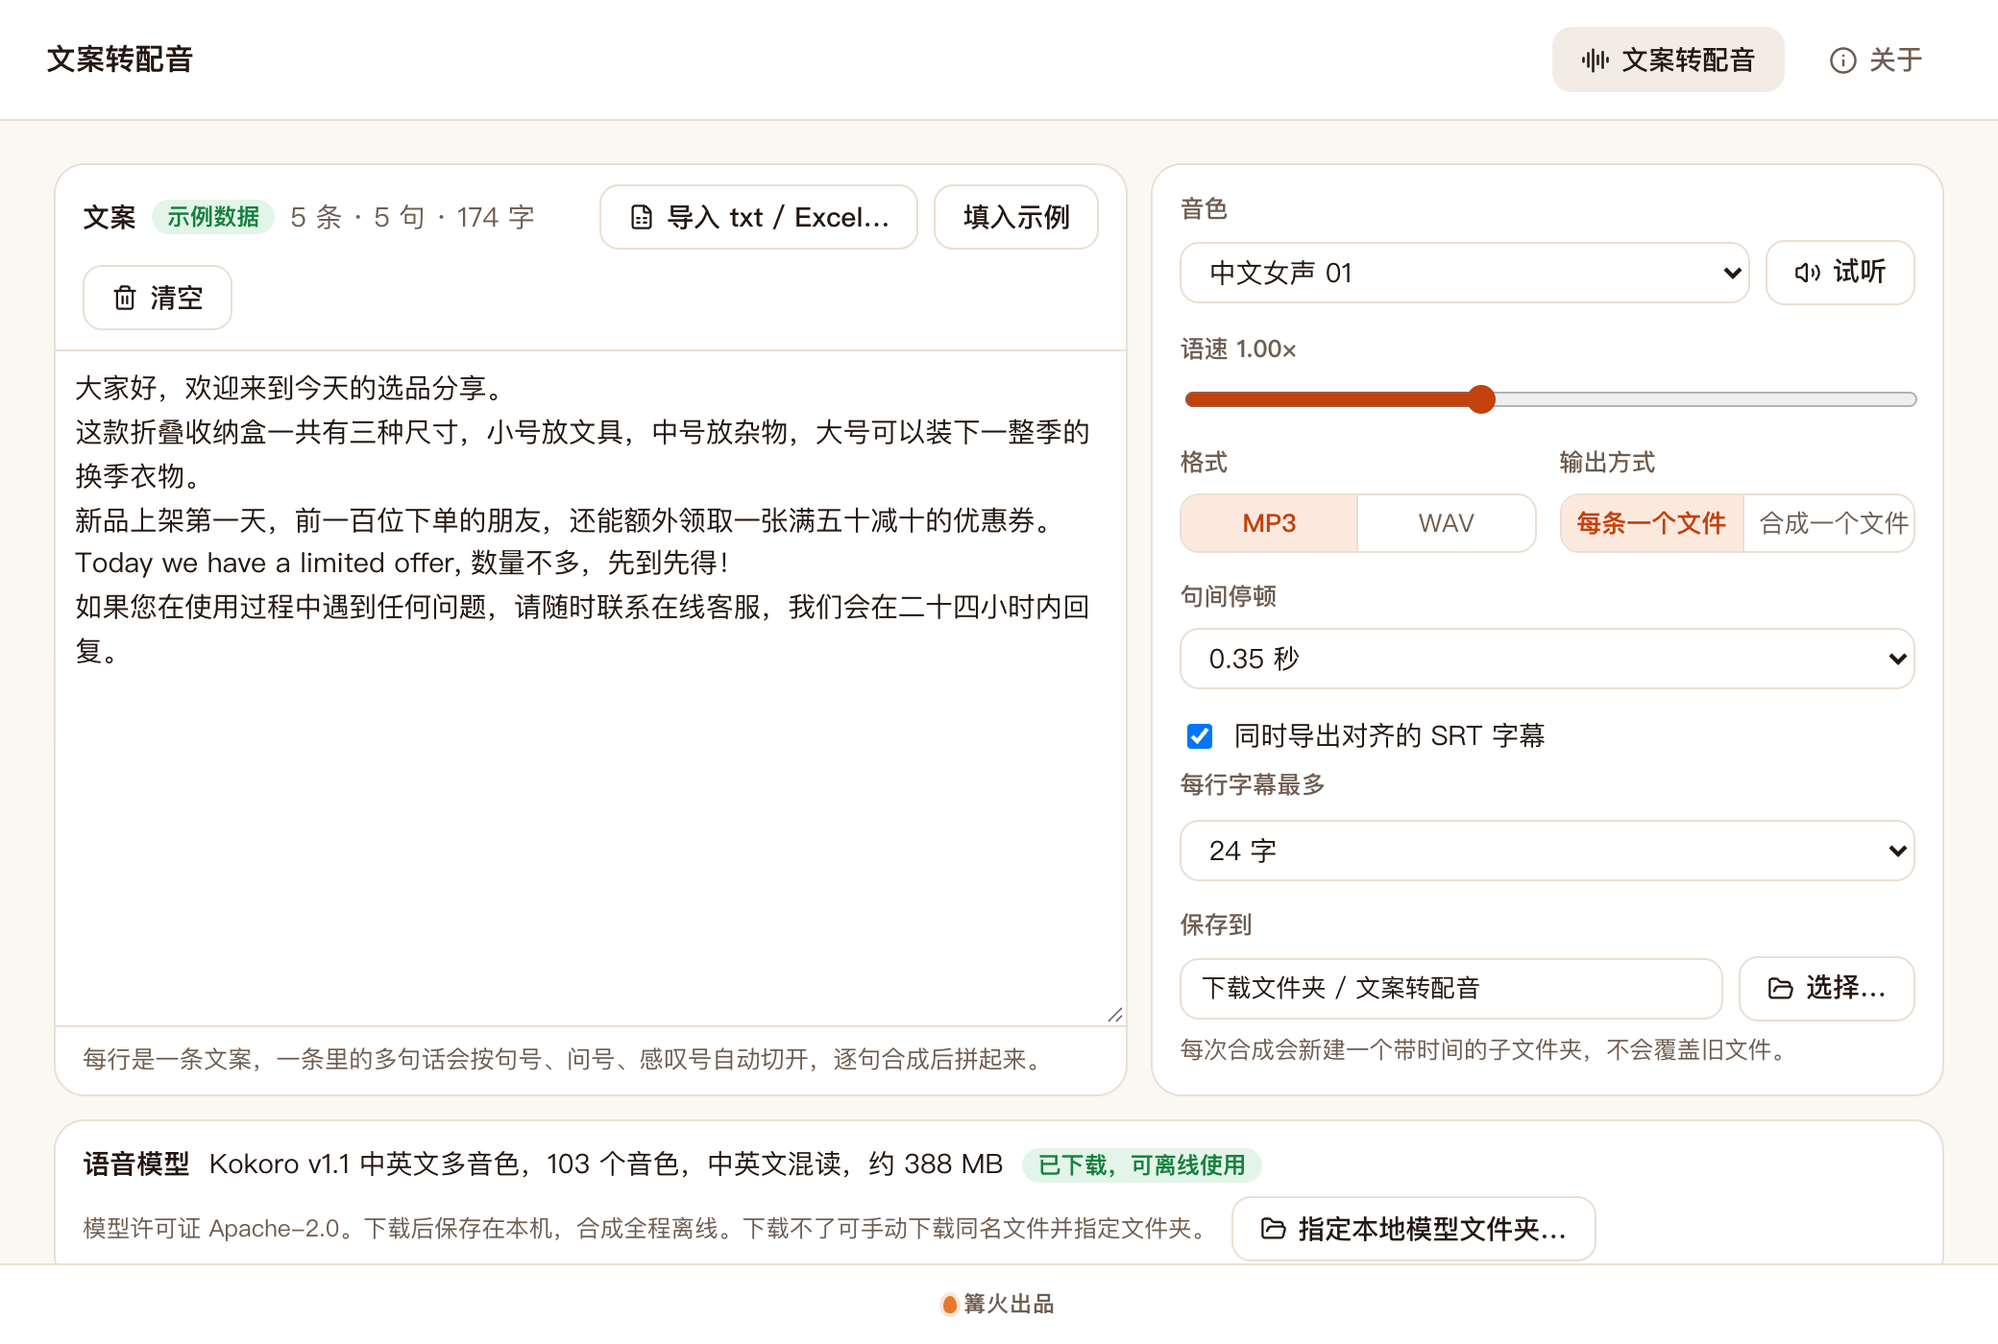
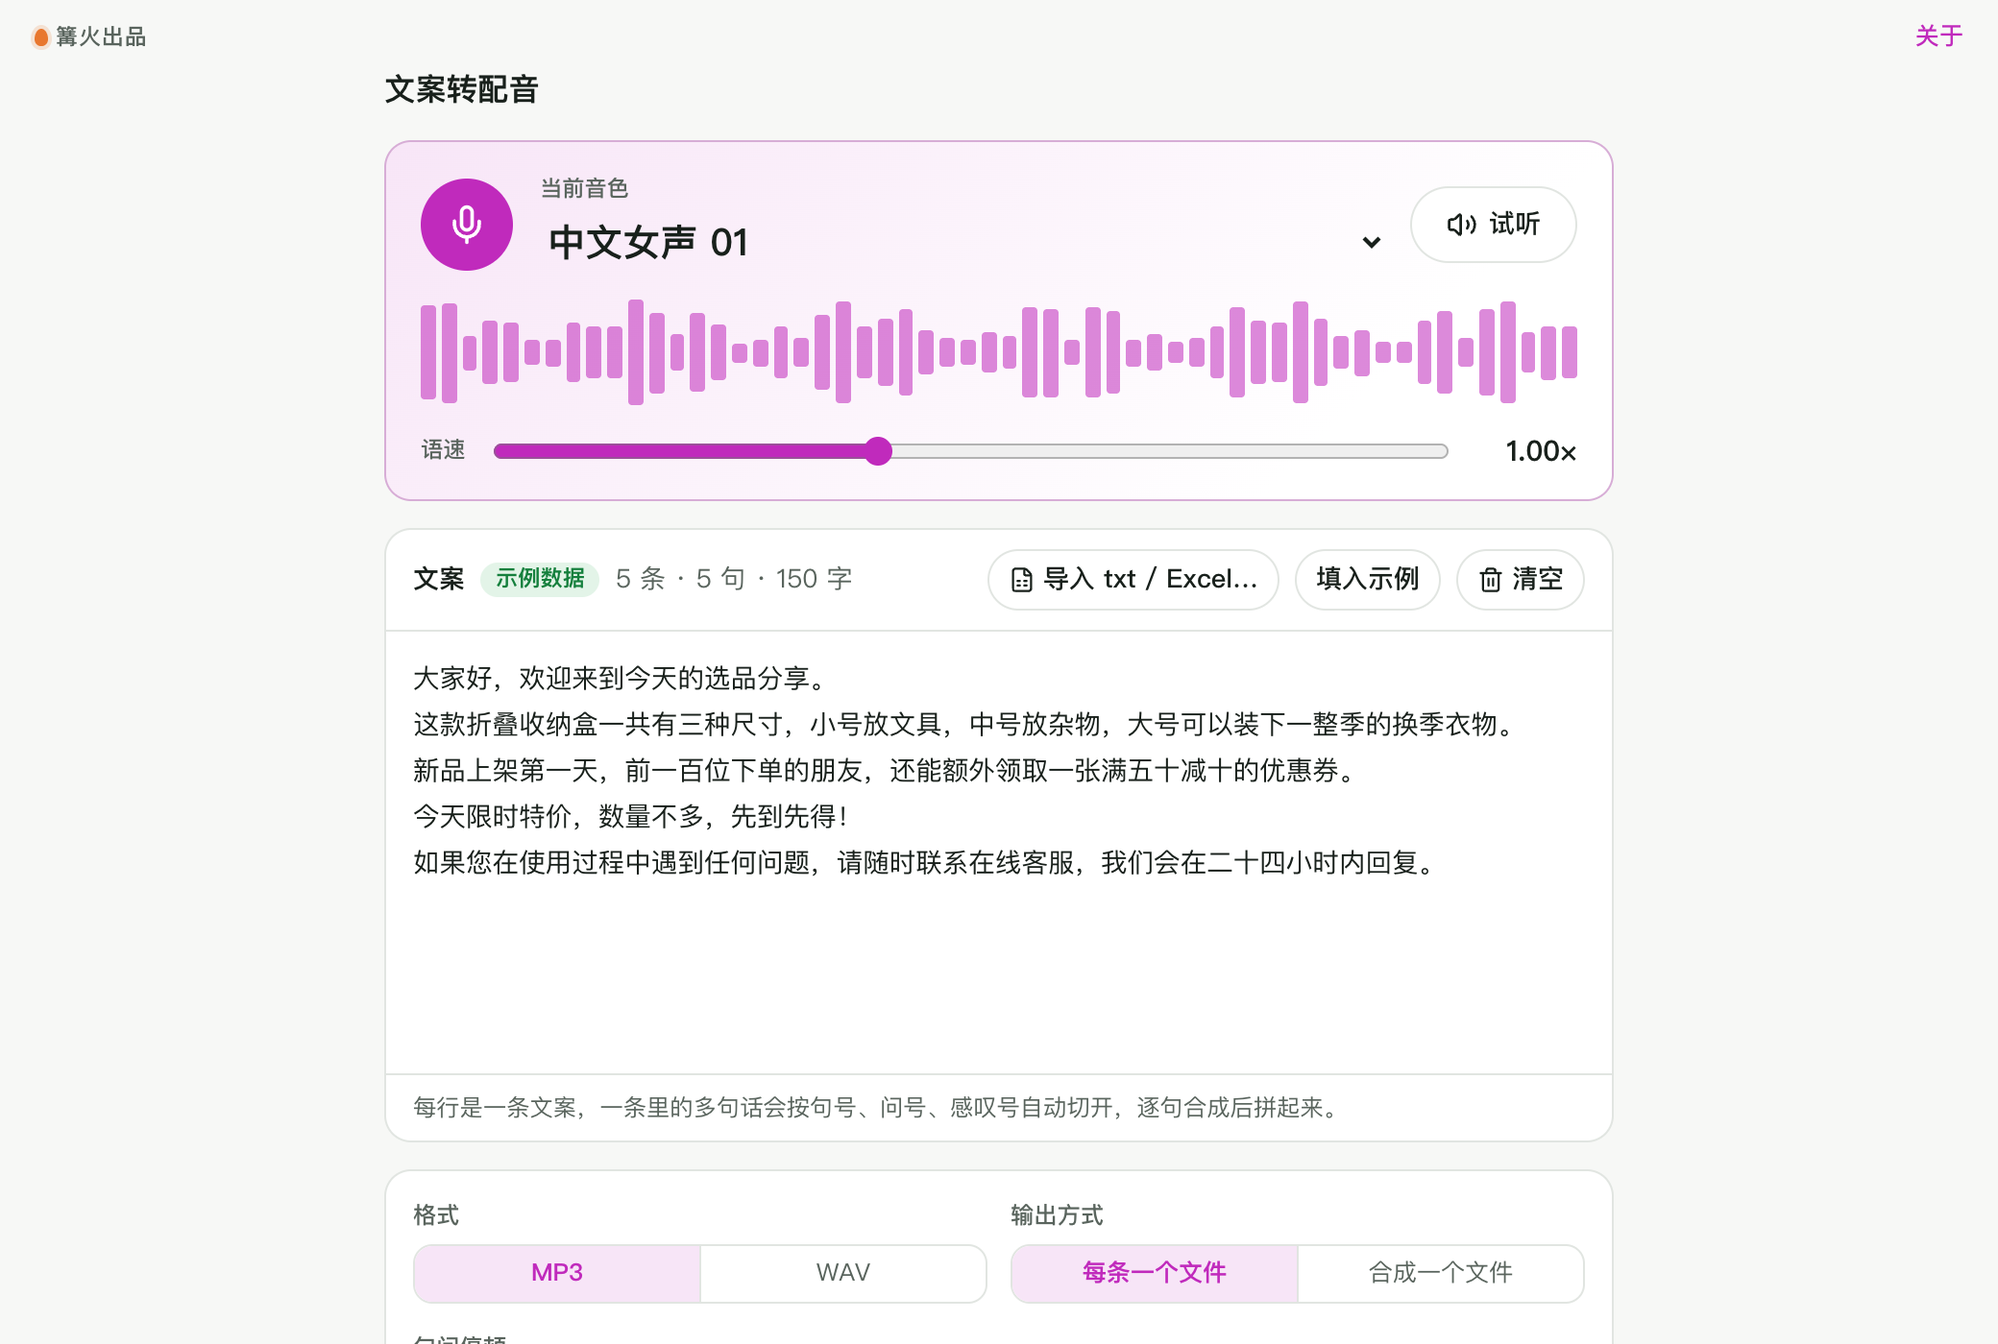
0.2.0：单栏录音棚界面、中文化、README 副标题改正

diff --git a/src/tool/Main.tsx b/src/tool/Main.tsx
@@ -1,6 +1,6 @@
 // 主界面：输入 / 导入文案 → 选音色和语速 → 离线合成 → 导出 WAV / MP3 与对齐的 SRT。
 import { useCallback, useDeferredValue, useEffect, useMemo, useRef, useState } from 'react';
-import { AlertTriangle, CheckCircle2, FileSpreadsheet, FolderOpen, Play, Square, Trash2, Volume2 } from 'lucide-react';
+import { AlertTriangle, CheckCircle2, FileSpreadsheet, FolderOpen, Mic, Play, Square, Trash2, Volume2 } from 'lucide-react';
 import type { CustomTool } from '../kit/types';
 import { ProgressBar, useDroppedFiles } from '../kit/parts';
 import { defaultOutputDir, fileSrc, fs, openFolder, pickFiles, pickFolder, reveal, settingsStore } from '../kit/platform';
@@ -18,6 +18,7 @@ const errText = (e: unknown) => (e instanceof Error ? e.message : String(e));
 const baseName = (p: string) => p.split(/[\\/]/).pop() ?? p;
 const isPreview = typeof location !== 'undefined' && location.pathname.endsWith('preview.html');
 const IMPORT_EXTS = ['txt', 'csv', 'xlsx'];
+// check-zh: 忽略（试听朗读用的中英混读句子，是语音内容不是界面文字）
 const AUDITION = '你好，这是一段试听。Hello, this is a voice test，一二三四五。';
 const VOICES = voiceList();
 
@@ -36,6 +37,19 @@ async function loadPrefs(): Promise<Prefs> {
 }
 async function savePrefs(p: Prefs) {
   try { await (await settingsStore()).set('prefs', p); } catch { /* 存不下不影响使用 */ }
+}
+
+/** 装饰性声波：条形高度由音色编号决定，合成中会起伏 */
+function Wave({ seed, speed, active, n = 56 }: { seed: number; speed: number; active?: boolean; n?: number }) {
+  const bars = useMemo(() => Array.from({ length: n }, (_, i) => {
+    const v = Math.abs(Math.sin((i + 1) * (seed % 7 + 2.3)) * Math.cos(i * 0.31 + seed));
+    return 18 + Math.round(v * 82);
+  }), [seed, n]);
+  return (
+    <div className={`tt-wave${active ? ' on' : ''}`} aria-hidden style={{ ['--dur' as string]: `${(1.4 / speed).toFixed(2)}s` }}>
+      {bars.map((h, i) => <i key={i} style={{ height: `${h}%`, animationDelay: `${(i % 9) * 90}ms` }} />)}
+    </div>
+  );
 }
 
 interface Table { name: string; grid: string[][]; col: number; header: boolean }
@@ -147,6 +161,25 @@ export function Main({ ctx }: { ctx?: Ctx }) {
   return (
     <div className="tt-root">
       <div className="tt-main">
+        <section className={`k-panel tt-stage${busy ? ' live' : ''}`} aria-label="音色与语速">
+          <div className="tt-stage-top">
+            <span className="tt-mic" aria-hidden><Mic size={22} /></span>
+            <div className="tt-voice">
+              <label className="tt-kicker" htmlFor="tt-voice">当前音色</label>
+              <select id="tt-voice" className="tt-voice-sel" value={prefs.sid} disabled={busy} onChange={(e) => setPref('sid', Number(e.target.value))}>
+                {VOICE_GROUPS.map((g) => <optgroup key={g.id} label={`${g.label}（${g.count} 个）`}>{VOICES.filter((v) => v.group === g.id).map((v) => <option key={v.sid} value={v.sid}>{v.label}</option>)}</optgroup>)}
+              </select>
+            </div>
+            <button className="k-btn tt-aud" disabled={busy} onClick={audition} title="用当前音色和语速合成一小段"><Volume2 size={16} aria-hidden />试听</button>
+          </div>
+          <Wave seed={prefs.sid} speed={prefs.speed} active={busy} />
+          <div className="tt-speed">
+            <label className="tt-kicker" htmlFor="tt-speed">语速</label>
+            <input id="tt-speed" className="tt-range" type="range" min={0.6} max={1.6} step={0.05} value={prefs.speed} disabled={busy} onChange={(e) => setPref('speed', Number(e.target.value))} />
+            <b className="tt-speed-n k-num">{prefs.speed.toFixed(2)}×</b>
+          </div>
+        </section>
+
         <section className={`k-panel tt-text${hover ? ' hover' : ''}`}>
           <div className="tt-hd">
             <b>文案</b>
@@ -172,19 +205,6 @@ export function Main({ ctx }: { ctx?: Ctx }) {
         </section>
 
         <section className="k-panel tt-opts">
-          <div className="tt-field">
-            <label className="k-label" htmlFor="tt-voice">音色</label>
-            <div className="tt-row">
-              <select id="tt-voice" className="k-input tt-grow" value={prefs.sid} disabled={busy} onChange={(e) => setPref('sid', Number(e.target.value))}>
-                {VOICE_GROUPS.map((g) => <optgroup key={g.id} label={`${g.label}（${g.count} 个）`}>{VOICES.filter((v) => v.group === g.id).map((v) => <option key={v.sid} value={v.sid}>{v.label}</option>)}</optgroup>)}
-              </select>
-              <button className="k-btn tt-sm" disabled={busy} onClick={audition} title="用当前音色和语速合成一小段"><Volume2 size={14} aria-hidden />试听</button>
-            </div>
-          </div>
-          <div className="tt-field">
-            <label className="k-label" htmlFor="tt-speed">语速 <b className="k-num">{prefs.speed.toFixed(2)}×</b></label>
-            <input id="tt-speed" className="tt-range" type="range" min={0.6} max={1.6} step={0.05} value={prefs.speed} disabled={busy} onChange={(e) => setPref('speed', Number(e.target.value))} />
-          </div>
           <div className="tt-pair">
             <div className="tt-field"><span className="k-label">格式</span>
               <span className="k-seg" role="group" aria-label="输出格式">
@@ -234,7 +254,7 @@ export function Main({ ctx }: { ctx?: Ctx }) {
           <span className={`tt-badge ${model === 'missing' ? 'warn' : 'ok'}`}>{modelText}</span>
         </div>
         <div className="tt-row">
-          <span className="k-muted tt-hint">模型许可证 Apache-2.0。下载后保存在本机，合成全程离线。下载不了可手动下载同名文件并指定文件夹。</span>
+          <span className="k-muted tt-hint">模型采用开放授权协议，商用前请阅读其条款。下载后保存在本机，合成全程离线。下载不了可手动下载同名文件并指定文件夹。</span>
           <button className="k-btn tt-sm" disabled={busy} onClick={async () => { const d = await pickFolder(); if (d) setPref('localDir', d); }}><FolderOpen size={14} aria-hidden />指定本地模型文件夹…</button>
           {prefs.localDir && <button className="k-btn tt-sm" disabled={busy} onClick={() => setPref('localDir', '')} title={prefs.localDir}>改回自动下载</button>}
         </div>
@@ -255,7 +275,7 @@ export function Main({ ctx }: { ctx?: Ctx }) {
       {(files.length > 0 || failed.length > 0) && (
         <section className="k-panel tt-res">
           <div className="tt-hd">
-            <b>结果</b>
+            <b>成品</b>
             <span className="k-muted k-num">{files.length} 个文件</span>
             <span className="tt-sp" />
             {dir && <button className="k-btn tt-sm" onClick={() => void openFolder(dir)}><FolderOpen size={14} aria-hidden />打开文件夹</button>}
@@ -265,6 +285,7 @@ export function Main({ ctx }: { ctx?: Ctx }) {
               <li key={f.path} className="tt-item">
                 <button className="k-icon-btn" aria-label={`播放 ${f.name}`} title="播放" onClick={() => play(f.path)}><Play size={14} /></button>
                 <span className="tt-name k-ellipsis" title={f.path}>{f.name}</span>
+                <Wave seed={f.name.length + f.entries[0]} speed={1} n={22} />
                 <span className="k-muted k-num">{fmtDuration(f.seconds)}</span>
                 <span className="k-muted">{f.entries.length > 1 ? `${f.entries.length} 条` : ''}{f.srtPath ? ' · 含 SRT' : ''}</span>
                 <button className="k-btn tt-sm" onClick={() => void reveal(f.path).catch(() => {})}>在文件夹中显示</button>
@@ -281,7 +302,7 @@ export function Main({ ctx }: { ctx?: Ctx }) {
         </section>
       )}
       <audio ref={audio} className="tt-audio" controls aria-label="试听播放器" />
-      <div className="tt-ai k-muted">合成的配音属于 AI 合成内容。用于商业发布时，请遵守所用模型的许可证（Kokoro 为 Apache-2.0）和发布平台对 AI 合成内容的标识要求。</div>
+      <div className="tt-ai k-muted">合成的配音属于 AI 合成内容。用于商业发布时，请遵守所用语音模型的授权协议和发布平台对 AI 合成内容的标识要求。</div>
     </div>
   );
 }

diff --git a/src/tool/tool.css b/src/tool/tool.css
@@ -1,15 +1,15 @@
 /* 文案转配音：只用 kit.css 的变量，类名统一以 tt- 开头。 */
 .tt-root { flex: 1; min-height: 0; display: flex; flex-direction: column; gap: 12px; }
-.tt-main { display: flex; flex-wrap: wrap; gap: 12px; align-items: stretch; }
-.tt-text { flex: 1.5 1 420px; min-width: 0; display: flex; flex-direction: column; min-height: 360px; transition: border-color .15s var(--ease), background .15s var(--ease); }
+.tt-main { display: flex; flex-direction: column; gap: 14px; }
+.tt-text { min-width: 0; display: flex; flex-direction: column; min-height: 360px; transition: border-color .15s var(--ease), background .15s var(--ease); }
 .tt-text.hover { border-color: var(--primary); background: var(--primary-soft); }
-.tt-opts { flex: 1 1 320px; min-width: 0; padding: 14px; display: flex; flex-direction: column; gap: 14px; }
+.tt-opts { min-width: 0; padding: 14px; display: flex; flex-direction: column; gap: 14px; }
 
 .tt-hd { display: flex; align-items: center; gap: 8px; flex-wrap: wrap; padding: 10px 14px; border-bottom: 1px solid var(--line); }
 .tt-sp { flex: 1; }
-.tt-sm { height: 28px; padding: 0 10px; display: inline-flex; align-items: center; gap: 4px; }
+.tt-sm { height: 32px; padding: 0 10px; display: inline-flex; align-items: center; gap: 4px; }
 .tt-table { display: flex; align-items: center; gap: 10px; flex-wrap: wrap; padding: 8px 14px; border-bottom: 1px solid var(--line); background: var(--side); font-size: .93em; }
-.tt-col { height: 28px; min-width: 150px; }
+.tt-col { height: 32px; min-width: 150px; }
 .tt-check { display: inline-flex; align-items: center; gap: 8px; cursor: pointer; }
 .tt-area { flex: 1; min-height: 240px; margin: 0; border: 0; border-radius: 0; resize: none; padding: 12px 14px; line-height: 1.75; font-size: 1.02em; background: transparent; }
 .tt-area:focus-visible { outline-offset: -2px; }
@@ -38,14 +38,33 @@
 
 .tt-res { display: flex; flex-direction: column; overflow: hidden; }
 .tt-list { list-style: none; margin: 0; padding: 6px 10px 10px; display: flex; flex-direction: column; gap: 2px; max-height: 280px; overflow-y: auto; }
-.tt-item { display: grid; grid-template-columns: 28px minmax(0, 1fr) auto auto auto; gap: 10px; align-items: center; padding: 6px 4px; border-bottom: 1px solid var(--line); }
+.tt-item { display: grid; grid-template-columns: 32px minmax(0, 1fr) 88px auto auto auto; gap: 10px; align-items: center; padding: 6px 4px; border-bottom: 1px solid var(--line); }
 .tt-item:hover { background: var(--chip); }
 .tt-item.bad { grid-template-columns: 18px minmax(0, 1fr) auto; background: var(--err-soft); color: var(--err); border-radius: var(--radius); }
 .tt-name { min-width: 0; }
 .tt-err { font-size: .92em; }
 .tt-audio { width: 100%; height: 34px; }
 .tt-ai { font-size: .88em; padding: 0 2px 4px; }
-@media (max-width: 720px) { .tt-item { grid-template-columns: 28px minmax(0, 1fr); } .tt-item > :nth-child(n+3) { grid-column: 2; } }
+@media (max-width: 560px) { .tt-item { grid-template-columns: 32px minmax(0, 1fr); } .tt-item > :nth-child(n+3) { grid-column: 2; } }
 .tt-root > * { flex-shrink: 0; }
 .tt-text { min-height: 320px; }
 .tt-area { min-height: 200px; }
+
+/* ---- 录音棚：音色与语速 ---- */
+.tt-stage { padding: 16px 18px 14px; display: flex; flex-direction: column; gap: 12px; border-radius: var(--radius-lg); background: linear-gradient(135deg, var(--primary-soft), var(--surface) 78%); border-color: color-mix(in srgb, var(--primary) 30%, var(--line)); }
+.tt-stage-top { display: flex; align-items: center; gap: 14px; }
+.tt-mic { flex: none; width: 48px; height: 48px; border-radius: 50%; display: grid; place-items: center; background: var(--primary); color: var(--on-primary); }
+.tt-voice { flex: 1; min-width: 0; display: flex; flex-direction: column; }
+.tt-kicker { font-size: .86em; color: var(--muted); font-weight: 500; }
+.tt-voice-sel { width: 100%; min-height: 36px; border: 0; background: transparent; font-size: 1.45em; font-weight: 700; padding: 0; cursor: pointer; text-overflow: ellipsis; }
+.tt-voice-sel:focus-visible { outline: 2px solid var(--primary); outline-offset: 2px; border-radius: 6px; }
+.tt-aud { height: 40px; padding: 0 18px; }
+.tt-wave { height: 56px; display: flex; align-items: center; gap: 3px; }
+.tt-wave i { flex: 1; min-width: 2px; border-radius: 2px; background: var(--primary); opacity: .55; transform-origin: center; }
+.tt-wave.on i { opacity: .9; animation: tt-bounce var(--dur, 1.4s) ease-in-out infinite alternate; }
+@keyframes tt-bounce { from { transform: scaleY(.35); } to { transform: scaleY(1); } }
+.tt-speed { display: flex; align-items: center; gap: 12px; }
+.tt-speed .tt-range { flex: 1; }
+.tt-speed-n { min-width: 52px; text-align: right; font-size: 1.1em; }
+.tt-item .tt-wave { height: 22px; gap: 2px; }
+.tt-item .tt-wave i { opacity: .7; }

diff --git a/src/tool/samples.ts b/src/tool/samples.ts
@@ -3,7 +3,7 @@ export const SAMPLE_TEXT = [
   '大家好，欢迎来到今天的选品分享。',
   '这款折叠收纳盒一共有三种尺寸，小号放文具，中号放杂物，大号可以装下一整季的换季衣物。',
   '新品上架第一天，前一百位下单的朋友，还能额外领取一张满五十减十的优惠券。',
-  'Today we have a limited offer, 数量不多，先到先得！',
+  '今天限时特价，数量不多，先到先得！',
   '如果您在使用过程中遇到任何问题，请随时联系在线客服，我们会在二十四小时内回复。',
 ].join('\n');
 
@@ -12,5 +12,6 @@ export const SAMPLE_ROWS: [string, string, string][] = [
   ['1', '开场：大家好，欢迎来到我们的小店。', '约 4 秒'],
   ['2', '这款杯子容量四百毫升，保温六小时，适合放进通勤包。', '卖点'],
   ['3', '今天下单，赠送一个杯刷。数量有限，送完即止！', '促单'],
+  // check-zh: 忽略（演示中英混读的朗读内容）
   ['4', 'Thank you for watching，感谢收看，我们下期再见。', '结尾（中英混读）'],
 ];

diff --git a/src/tool/preview.ts b/src/tool/preview.ts
@@ -3,7 +3,7 @@ import type { OutputFile } from './flow';
 import { SAMPLE_TEXT } from './samples';
 
 export const demoText = SAMPLE_TEXT;
-export const demoDir = '/Users/demo/Downloads/文案转配音/配音-20261023-101500';
+export const demoDir = '~/下载/文案转配音/配音-20261023-101500';
 export const demoFiles: OutputFile[] = [
   { name: '01-大家好欢迎来到今天的选.mp3', path: `${demoDir}/01-大家好欢迎来到今天的选.mp3`, srtPath: `${demoDir}/01-大家好欢迎来到今天的选.srt`, seconds: 4.3, entries: [0] },
   { name: '02-这款折叠收纳盒一共有三.mp3', path: `${demoDir}/02-这款折叠收纳盒一共有三.mp3`, srtPath: `${demoDir}/02-这款折叠收纳盒一共有三.srt`, seconds: 13.8, entries: [1] },

diff --git a/src/tool/tts/models.ts b/src/tool/tts/models.ts
@@ -23,7 +23,7 @@ export interface ModelSpec {
 
 export const KOKORO: ModelSpec = {
   id: 'kokoro-zh-v1.1',
-  label: 'Kokoro v1.1 中英文多音色',
+  label: '中英文多音色语音模型',
   repo: 'csukuangfj/kokoro-multi-lang-v1_1',
   commit: '914313412b607d95400bcd12446233fbd1248801',
   files: [

diff --git a/README.md b/README.md
@@ -2,7 +2,7 @@
 
 > 篝火出品 · 收录于篝火 App 应用区
 
-多音色配音，免费（使用微软非官方接口，可能失效）
+离线多音色配音，免费：语音模型下载一次后在本机合成，不联网、不要显卡
 
 ![界面截图](docs/screenshot.png)
 
@@ -38,7 +38,7 @@
 
 以下用例在本机用 Chrome 里的 WebAssembly 引擎 + 内置 ffmpeg 跑通过（模型文件为上面 8 个文件）。
 
-1. 打开应用，点「导入 txt / Excel…」选 `samples/示例文案.txt`。**应得到**：文案框 5 条，状态栏显示「5 条 · 5 句 · 174 字」，不含「示例」字样。
+1. 打开应用，点「导入 txt / Excel…」选 `samples/示例文案.txt`。**应得到**：文案框 5 条，状态栏显示「5 条 · 5 句 · 150 字」，不含「示例」字样。
 2. 改选 `samples/示例文案.xlsx`。**应得到**：自动读第 2 列「配音文案」并跳过表头，共 4 条；其中第 4 条中英混读。
 3. 音色选「中文女声 01」，语速 1.00×，格式 MP3，勾选 SRT，输出方式「每条一个文件」，点「开始合成」。**应得到**：进度条显示「第 N / 5 条」；结果区列出 5 个 mp3；输出文件夹里每个 mp3 有同名 .srt。
 4. 用 `ffprobe` 检查任一 mp3：编码 mp3、24000 Hz、单声道；时长与同名 SRT 最后一条的结束时间相差不超过 0.1 秒；播放有清晰人声。

diff --git a/CHANGELOG.md b/CHANGELOG.md
@@ -1,5 +1,12 @@
 # 更新记录
 
+## 0.2.0
+
+- 界面改为单栏「录音棚」：顶部大卡片集中放当前音色、声波示意、试听和语速，合成时声波会随速度起伏。
+- 成品列表每条带声波小图，并显示时长、是否含字幕。
+- 界面与示例数据全部改为中文：语音模型名称、示例文案、示例保存路径；示例文案不再带英文句子。
+- 主色改为品红，布局改为居中单栏；README 副标题改正为离线合成，并同步示例文案字数。
+
 ## 0.1.0
 
 - 首个版本。
